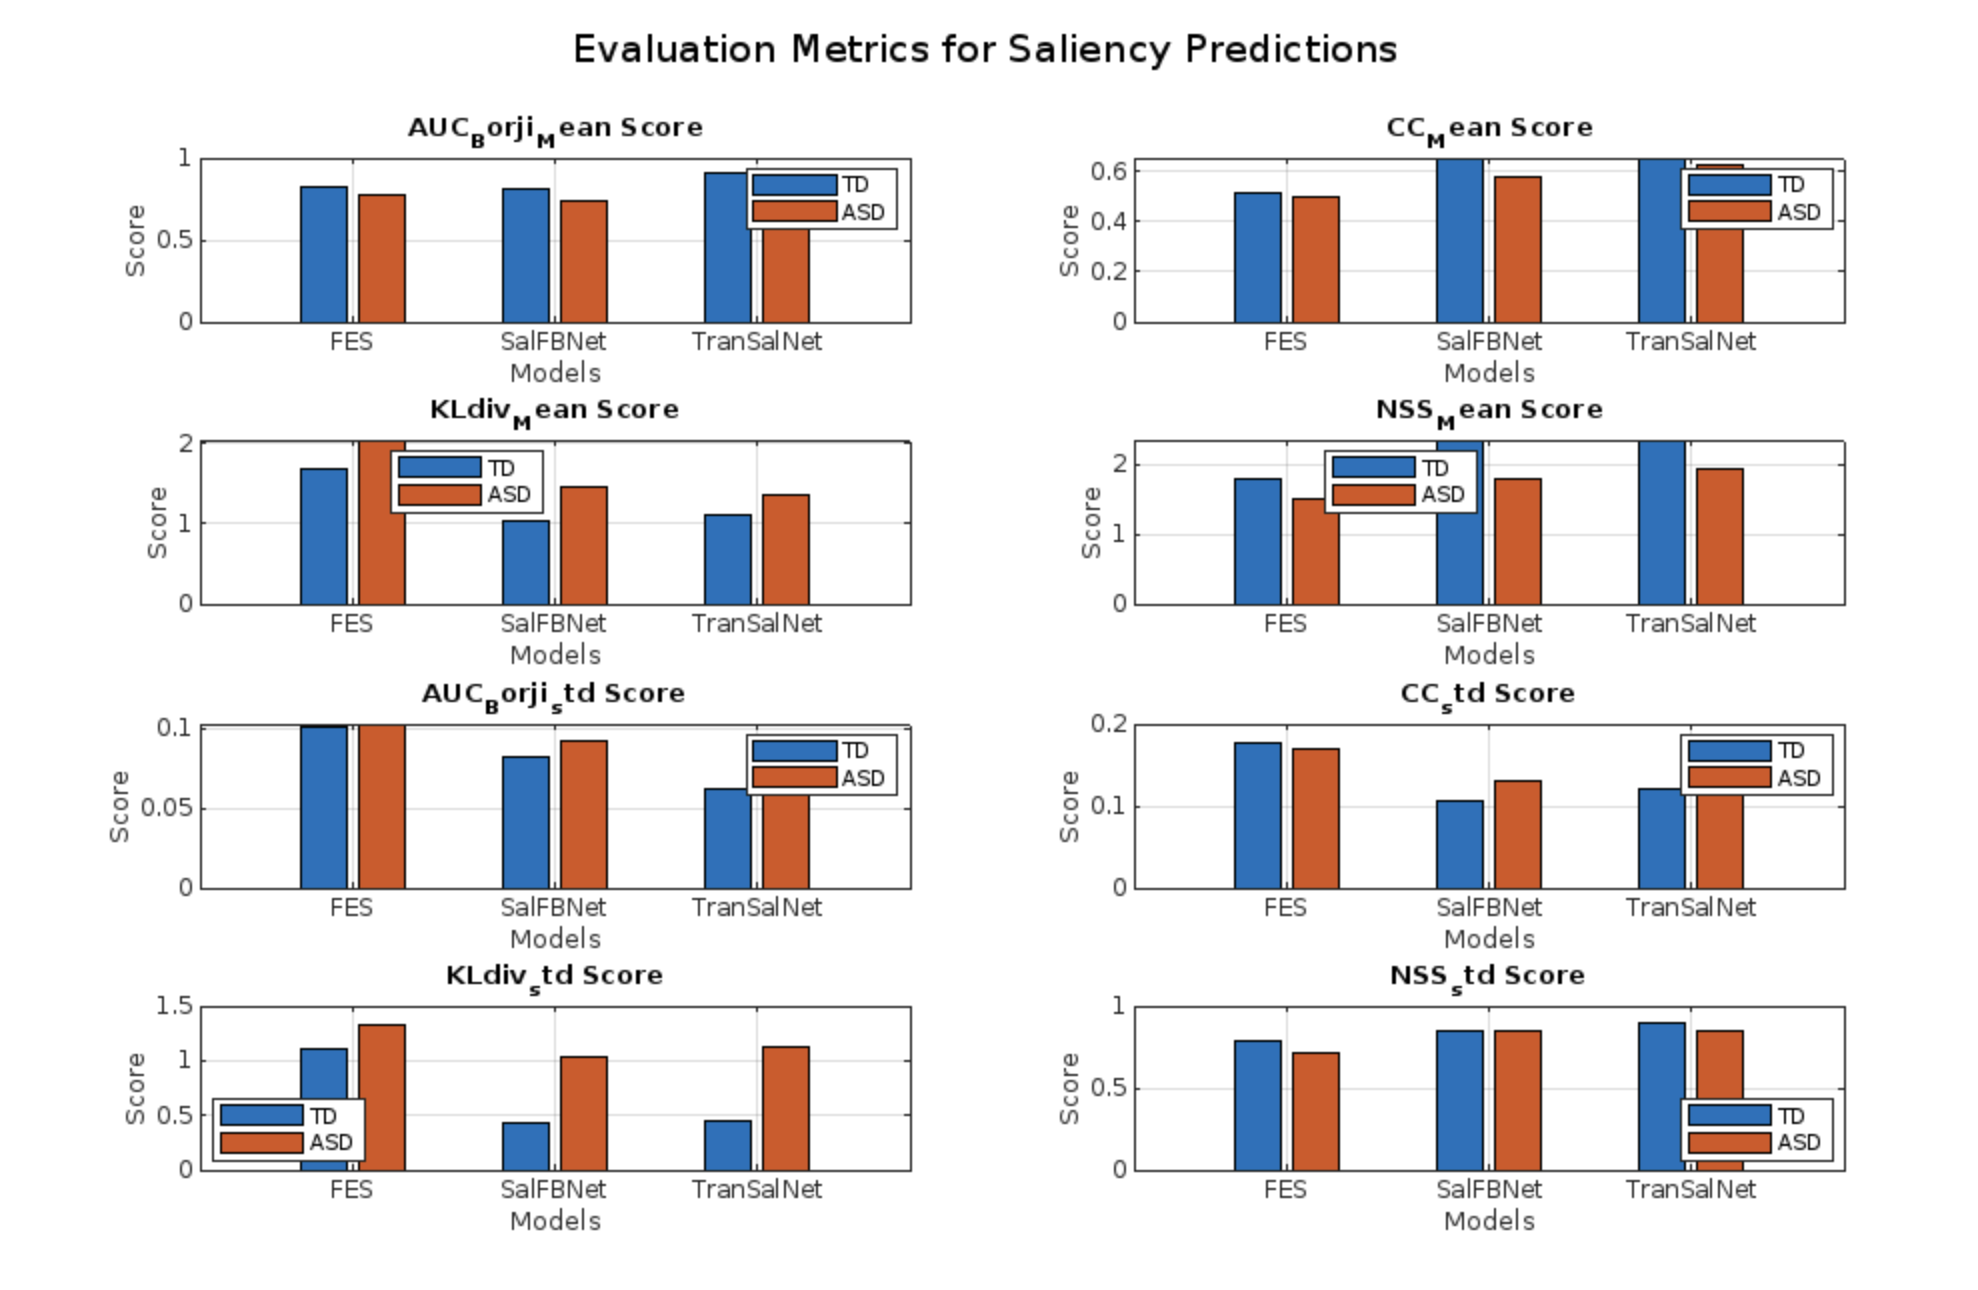
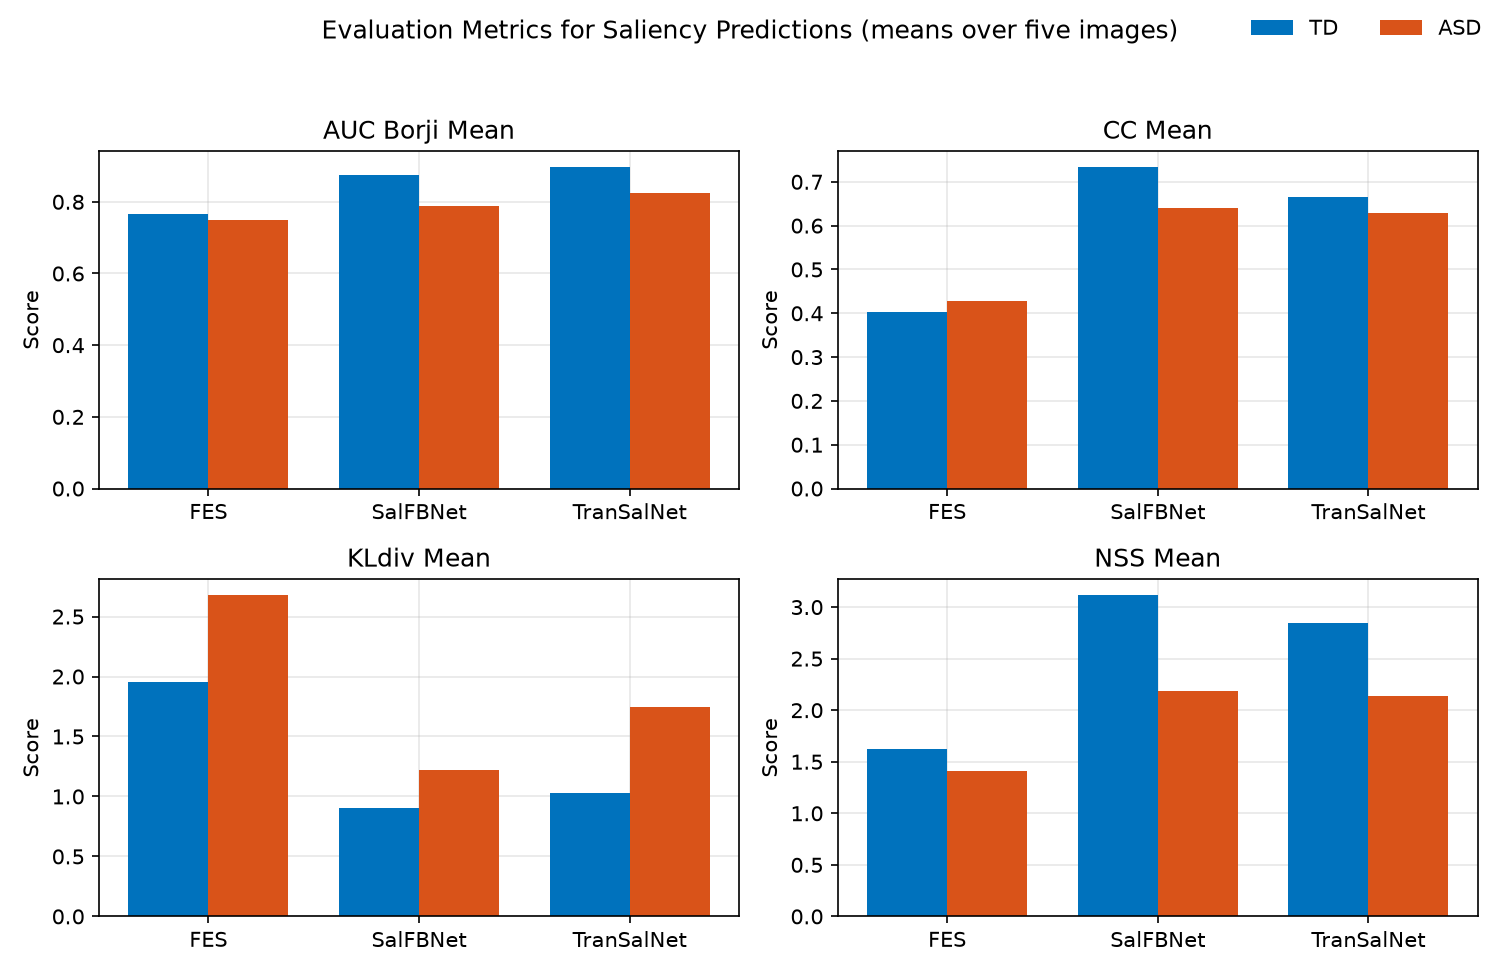
fix: write summary CSVs and save regenerated figures

diff --git a/visualize.m b/visualize.m
@@ -4,11 +4,11 @@
 %               (TD) and autistic (ASD) fixation maps.
 %   Inputs    : Results/TD_summary.csv and Results/ASD_summary.csv. Each has
 %               one row per model, with <Metric>_Mean and <Metric>_std
-%               columns. Both files ship with the repository. evaluate.m
-%               does not write them.
-%   Outputs   : Three figures, none saved to disk. One has a grouped TD and
-%               ASD bar chart for every summary column. The other two are
-%               heatmaps of the mean metrics, one per group.
+%               columns. evaluate.m writes both.
+%   Outputs   : Three figures, saved to visuals/ as bar.png, heatmap_td.png
+%               and heatmap_asd.png. The first has a grouped TD and ASD bar
+%               chart for each mean metric. The other two are heatmaps of
+%               the mean metrics, one per group.
 %   Run order : 1. downloadAndUnzip  2. cloneMetricsCode  3. evaluate
 %               4. visualize
 %               This script clears the workspace when it starts.
@@ -21,17 +21,22 @@ tdSummaryFile = fullfile(resultsDir, 'TD_summary.csv');
 asdSummaryFile = fullfile(resultsDir, 'ASD_summary.csv');
 
 if ~isfile(tdSummaryFile) || ~isfile(asdSummaryFile)
-    error('Results/TD_summary.csv and Results/ASD_summary.csv are required. Both ship with the repository, and evaluate.m does not write them.');
+    error('Results/TD_summary.csv and Results/ASD_summary.csv are required. Run evaluate first.');
 end
 
 tdTable = readtable(tdSummaryFile, 'ReadRowNames', true);
 asdTable = readtable(asdSummaryFile, 'ReadRowNames', true);
 
 models = tdTable.Properties.RowNames;
-metrics = tdTable.Properties.VariableNames;
+metrics = tdTable.Properties.VariableNames(contains(tdTable.Properties.VariableNames, '_Mean'));
 numMetrics = numel(metrics);
 
-%% Grouped bar chart for every summary column
+visualsDir = 'visuals';
+if ~exist(visualsDir, 'dir')
+    mkdir(visualsDir);
+end
+
+%% Grouped bar chart for each mean metric
 figure('Name', 'Saliency Evaluation Results', 'NumberTitle', 'off');
 for i = 1:numMetrics
     tdValues = tdTable.(metrics{i});
@@ -39,7 +44,7 @@ for i = 1:numMetrics
 
     subplot(ceil(numMetrics/2), 2, i);
     bar(categorical(models), [tdValues, asdValues]);
-    title(sprintf('%s Score', metrics{i}));
+    title(strrep(metrics{i}, '_', ' '));
     ylabel('Score');
     xlabel('Models');
     legend('TD', 'ASD','Location','Best');
@@ -47,6 +52,7 @@ for i = 1:numMetrics
 end
 
 sgtitle('Evaluation Metrics for Saliency Predictions');
+saveas(gcf, fullfile(visualsDir, 'bar.png'));
 
 %% Heatmaps of the mean metrics
 meanIdx = contains(tdTable.Properties.VariableNames, '_Mean');
@@ -61,6 +67,7 @@ tdHeatmap.XLabel = 'Metrics';
 tdHeatmap.YLabel = 'Models';
 tdHeatmap.FontSize = 12;
 colormap(tdHeatmap, winter);
+saveas(gcf, fullfile(visualsDir, 'heatmap_td.png'));
 
 figure('Name', 'ASD Metrics Heatmap', 'NumberTitle', 'off', 'Position', [500, 100, 300, 500]);
 asdHeatmap = heatmap(meanMetrics, asdTable.Properties.RowNames, asdMeanData, 'CellLabelFormat','%.3f');
@@ -69,3 +76,4 @@ asdHeatmap.XLabel = 'Metrics';
 asdHeatmap.YLabel = 'Models';
 asdHeatmap.FontSize = 12;
 colormap(asdHeatmap, winter);
+saveas(gcf, fullfile(visualsDir, 'heatmap_asd.png'));

diff --git a/evaluate.m b/evaluate.m
@@ -11,9 +11,10 @@
 %               cloneMetricsCode sets up. Needs the Image Processing Toolbox.
 %   Outputs   : Results/TD_metrics_<Model>.csv and
 %               Results/ASD_metrics_<Model>.csv, one row per image.
-%               Per-model means are printed to the Command Window. The means
-%               (tdMean, asdMean) and sample standard deviations (tdStd,
-%               asdStd) stay in the workspace and are not written to disk.
+%               Results/TD_summary.csv and Results/ASD_summary.csv, one row
+%               per model with the mean and sample standard deviation of
+%               each metric. Per-model means are also printed to the
+%               Command Window.
 %   Notes     : Each fixation map is binarised with imbinarize and the same
 %               binary map goes to all four metrics. Predicted maps are
 %               scored as saved, with no extra blur. An image is skipped
@@ -159,3 +160,14 @@ asdMeanTable = array2table(asdMean, 'VariableNames', metricNames, ...
     'RowNames', {models.name});
 fprintf('\nMean scores against ASD fixation maps:\n');
 disp(asdMeanTable);
+
+%% Write the per-model summaries that visualize.m reads
+summaryNames = [strcat(metricNames, '_Mean'), strcat(metricNames, '_std')];
+
+tdSummary = array2table([tdMean, tdStd], 'VariableNames', summaryNames, ...
+    'RowNames', {models.name});
+writetable(tdSummary, fullfile(resultsDir, 'TD_summary.csv'), 'WriteRowNames', true);
+
+asdSummary = array2table([asdMean, asdStd], 'VariableNames', summaryNames, ...
+    'RowNames', {models.name});
+writetable(asdSummary, fullfile(resultsDir, 'ASD_summary.csv'), 'WriteRowNames', true);

diff --git a/README.md b/README.md
@@ -42,8 +42,8 @@ The metric implementations are the MIT Saliency Benchmark MATLAB functions from 
 1. `saliencyPredictionsCode/FES.m` and the two notebooks generate the saliency maps.
 2. The maps go into `PredictionMaps/<Model>/` as PNG files named after the source image. No script does this step. `downloadAndUnzip.m` fetches a packaged `PredictionMaps.zip` instead.
 3. `cloneMetricsCode.m` fetches the metric functions.
-4. `evaluate.m` writes per-image scores, one CSV per model and group.
-5. `visualize.m` plots the summary CSVs.
+4. `evaluate.m` writes per-image scores, one CSV per model and group, and a summary CSV per group.
+5. `visualize.m` plots the summary CSVs and saves the figures to `visuals/`.
 
 ## Results
 
@@ -66,6 +66,8 @@ ASD fixation maps:
 | TranSalNet | 0.825 | 0.630 | 1.743 | 2.140 |
 
 The summary files also hold the sample standard deviation behind each mean. The `TD_metrics_<Model>.csv` and `ASD_metrics_<Model>.csv` files hold the per-image scores.
+
+![Mean scores per model against TD and ASD fixation maps](visuals/bar.png)
 
 ## Findings and limitations
 
@@ -103,14 +105,14 @@ Then in MATLAB, with the repository as the current folder:
 ```matlab
 downloadAndUnzip    % TrainingData/ and PredictionMaps/
 cloneMetricsCode    % metric functions, added to the path for this session
-evaluate            % Results/TD_metrics_<Model>.csv and Results/ASD_metrics_<Model>.csv
-visualize           % figures from Results/TD_summary.csv and Results/ASD_summary.csv
+evaluate            % per-image and summary CSVs in Results/
+visualize           % figures from the summary CSVs, saved to visuals/
 ```
 
 Three things to know before running:
 
 - Data lives in the current folder as `TrainingData/TD_FixMaps`, `TrainingData/ASD_FixMaps` and `PredictionMaps/<Model>/*.png`. If `TrainingData.zip` or `PredictionMaps.zip` is already in the current folder, `downloadAndUnzip` unpacks that copy and skips the download.
-- `evaluate.m` writes the per-image CSVs only. `TD_summary.csv` and `ASD_summary.csv` hold the mean and sample standard deviation of those per-image scores, and the code that wrote them is not in this repository. `visualize.m` reads the committed copies, so they go stale if you re-run `evaluate.m` on different data.
+- `evaluate.m` overwrites the CSVs in `Results/`, and `visualize.m` overwrites the PNGs in `visuals/`. Copy them first if you want to keep the committed numbers.
 - `evaluate.m` and `visualize.m` clear the workspace when they start.
 
 ### Regenerating the saliency maps
@@ -131,8 +133,8 @@ Afterwards, unpack the maps into `PredictionMaps/FES`, `PredictionMaps/SalFBNet`
 .
 ├── downloadAndUnzip.m            fetch TrainingData/ and PredictionMaps/
 ├── cloneMetricsCode.m            fetch the metric code from cvzoya/saliency
-├── evaluate.m                    score predictions, write per-image CSVs
-├── visualize.m                   bar charts and heatmaps from the summary CSVs
+├── evaluate.m                    score predictions, write per-image and summary CSVs
+├── visualize.m                   bar charts and heatmaps, saved to visuals/
 ├── saliencyPredictionsCode/
 │   ├── FES.m                     FES maps, MATLAB
 │   ├── SalFBNet.ipynb            SalFBNet maps, Colab
@@ -142,11 +144,9 @@ Afterwards, unpack the maps into `PredictionMaps/FES`, `PredictionMaps/SalFBNet`
 │   ├── ASD_metrics_<Model>.csv   per-image scores against ASD maps
 │   ├── TD_summary.csv            mean and standard deviation per model
 │   └── ASD_summary.csv
-├── visuals/                      exported figures, see the note below
+├── visuals/                      bar.png, heatmap_td.png, heatmap_asd.png
 └── LICENSE
 ```
-
-The figures in `visuals/` do not match the CSVs in `Results/` and need regenerating. Use the tables above.
 
 ## Licence
 
